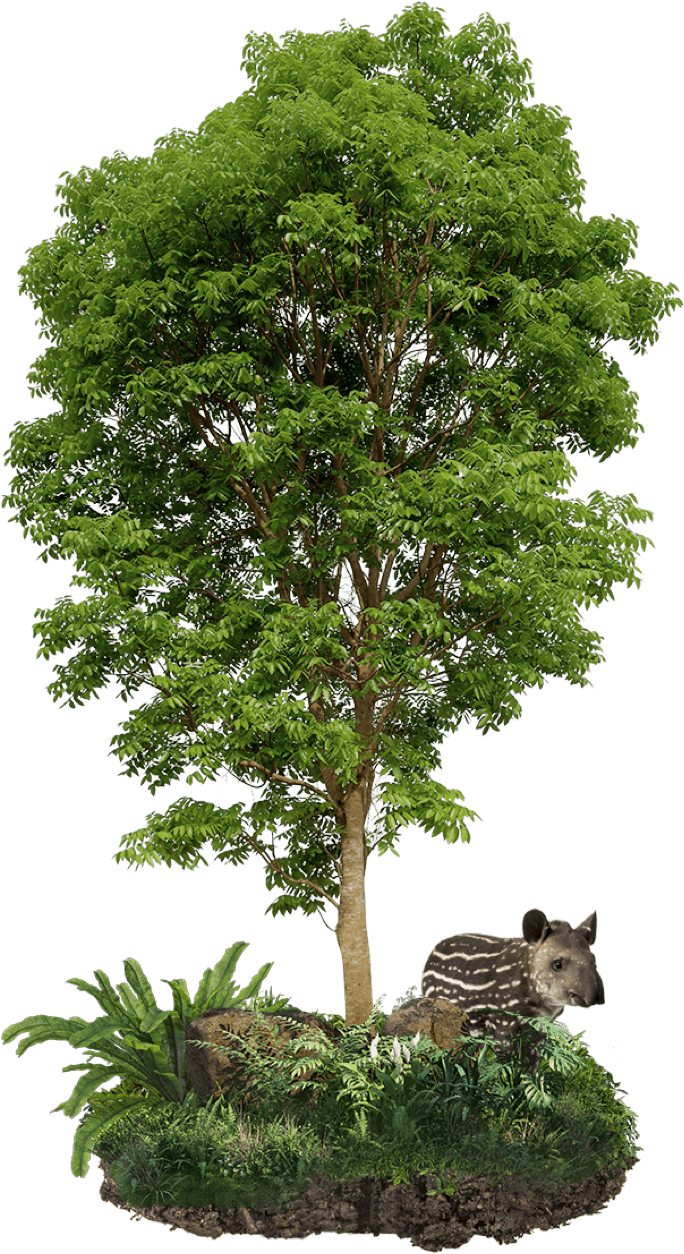
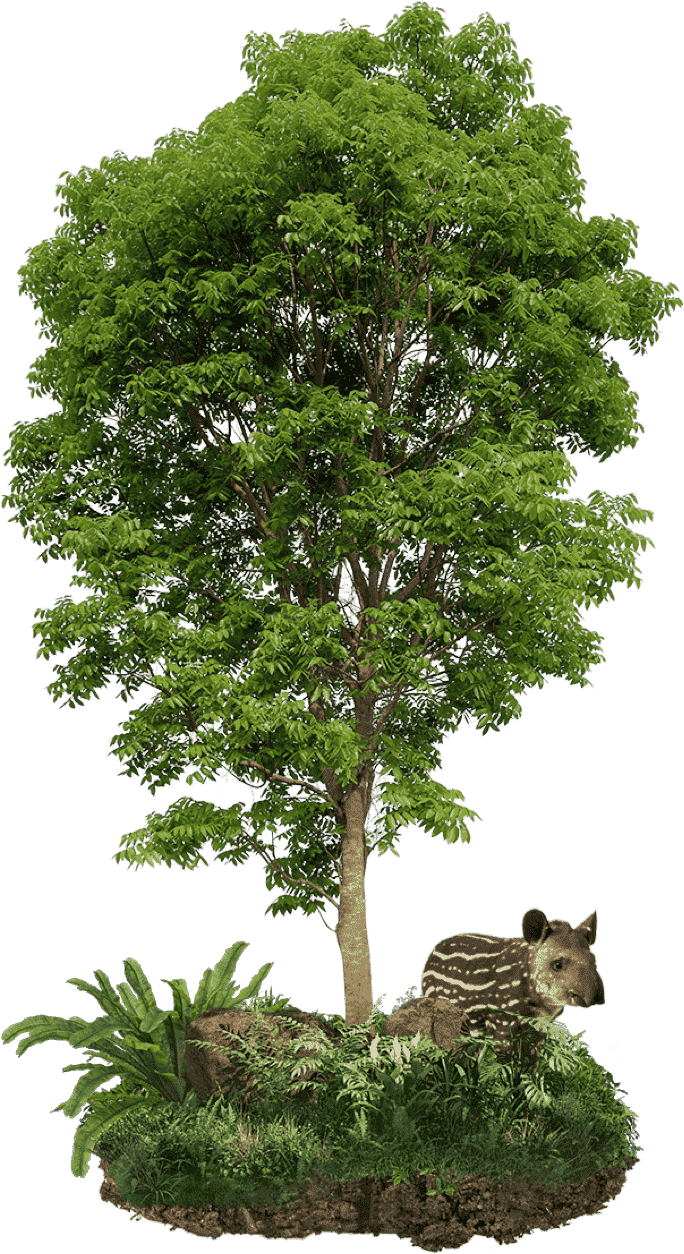
[PLF-478] compress trees

diff --git a/src/pages/Planting.tsx b/src/pages/Planting.tsx
@@ -17,7 +17,7 @@ import useTreeContract from '@/hooks/useTreeContract'
 import { PlantingModal } from '@/components/App/shared-components/PlantingModal/PlantingModal'
 import api from '@/api/api'
 import { UserTokens } from '@/types/UserTokens'
-import useMetamaskAuth from '@/hooks/useMetamaskAuth'
+import useMetamaskWallet from '@/hooks/useMetamaskWallet'
 
 const VITE_NETWORK_ID = window.config.NETWORK_ID ?? '4'
 
@@ -33,7 +33,7 @@ export const PlantPage = () => {
   const plantingTrees = [plantingTree0, plantingTree1, plantingTree2, plantingTree3]
   const { getBuyAllowance, getApprove } = usePLAIContract()
   const { mintATree } = useTreeContract()
-  const { login } = useMetamaskAuth()
+  const { getPLAIBalance, isConnected } = useMetamaskWallet()
 
   useEffect(() => {
     setTreeImage(plantingTrees[userDetails.treeTypeIdToPlant])
@@ -111,10 +111,23 @@ export const PlantPage = () => {
     }
   }
 
-  const checkAllowanceToMint = () => {
-    userDetails.address !== '' && userDetails.address !== 'logouted'
-    && window.ethereum.networkVersion === VITE_NETWORK_ID ? plantTreeHandler() :
-      null
+  const checkAllowanceToMint = async () => {
+
+      const walletConnected = await isConnected()
+      if (walletConnected) {
+        getPLAIBalance().then((r) => {
+          if (r !== 0 &&
+            userDetails.address !== '' &&
+            userDetails.address !== 'logouted' &&
+            window.ethereum.networkVersion === VITE_NETWORK_ID
+          ) {
+            plantTreeHandler()
+          }
+        })
+      }
+
+
+
   }
 
   return (

diff --git a/src/components/App/layout-components/Header/Header.module.scss b/src/components/App/layout-components/Header/Header.module.scss
@@ -3,7 +3,7 @@
   flex-wrap: wrap;
   padding-bottom: 1.2em;
   padding-top: 2.4em;
-  justify-content: space-between;
+  justify-content: flex-end;
 }
 
 .loginBtn {
